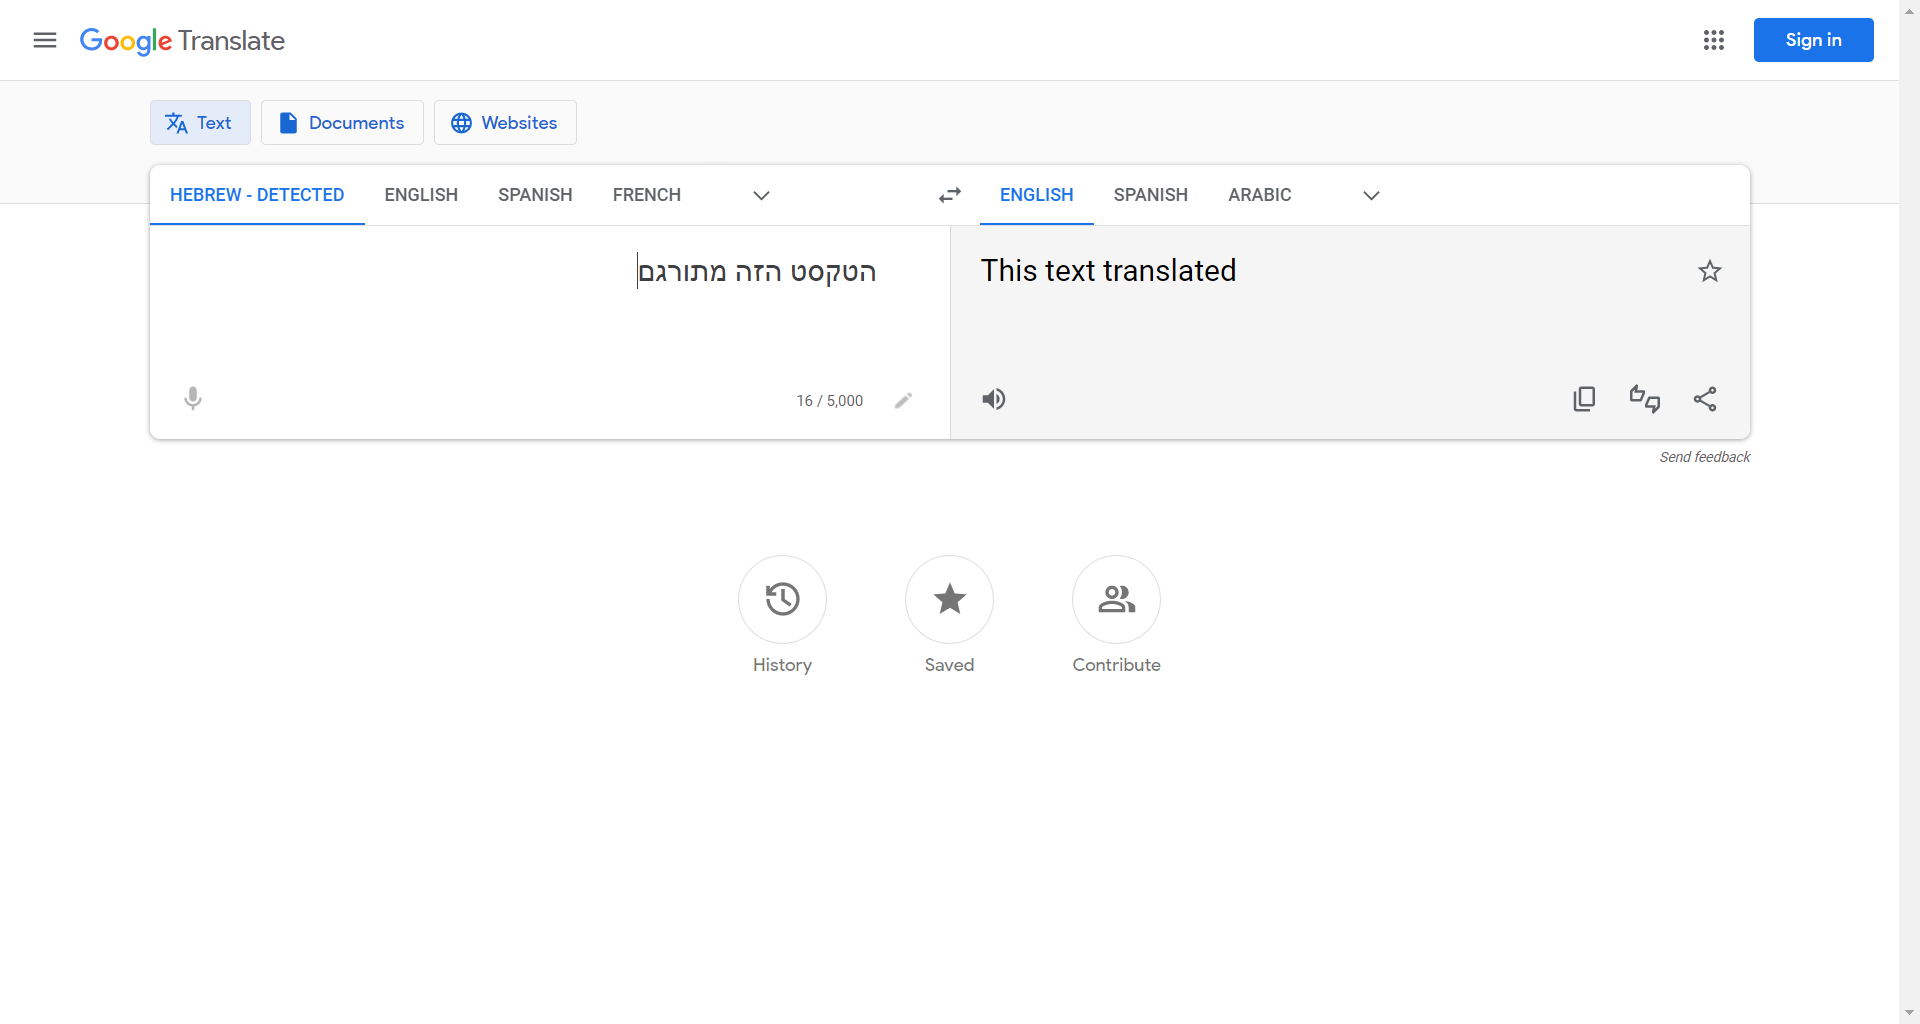
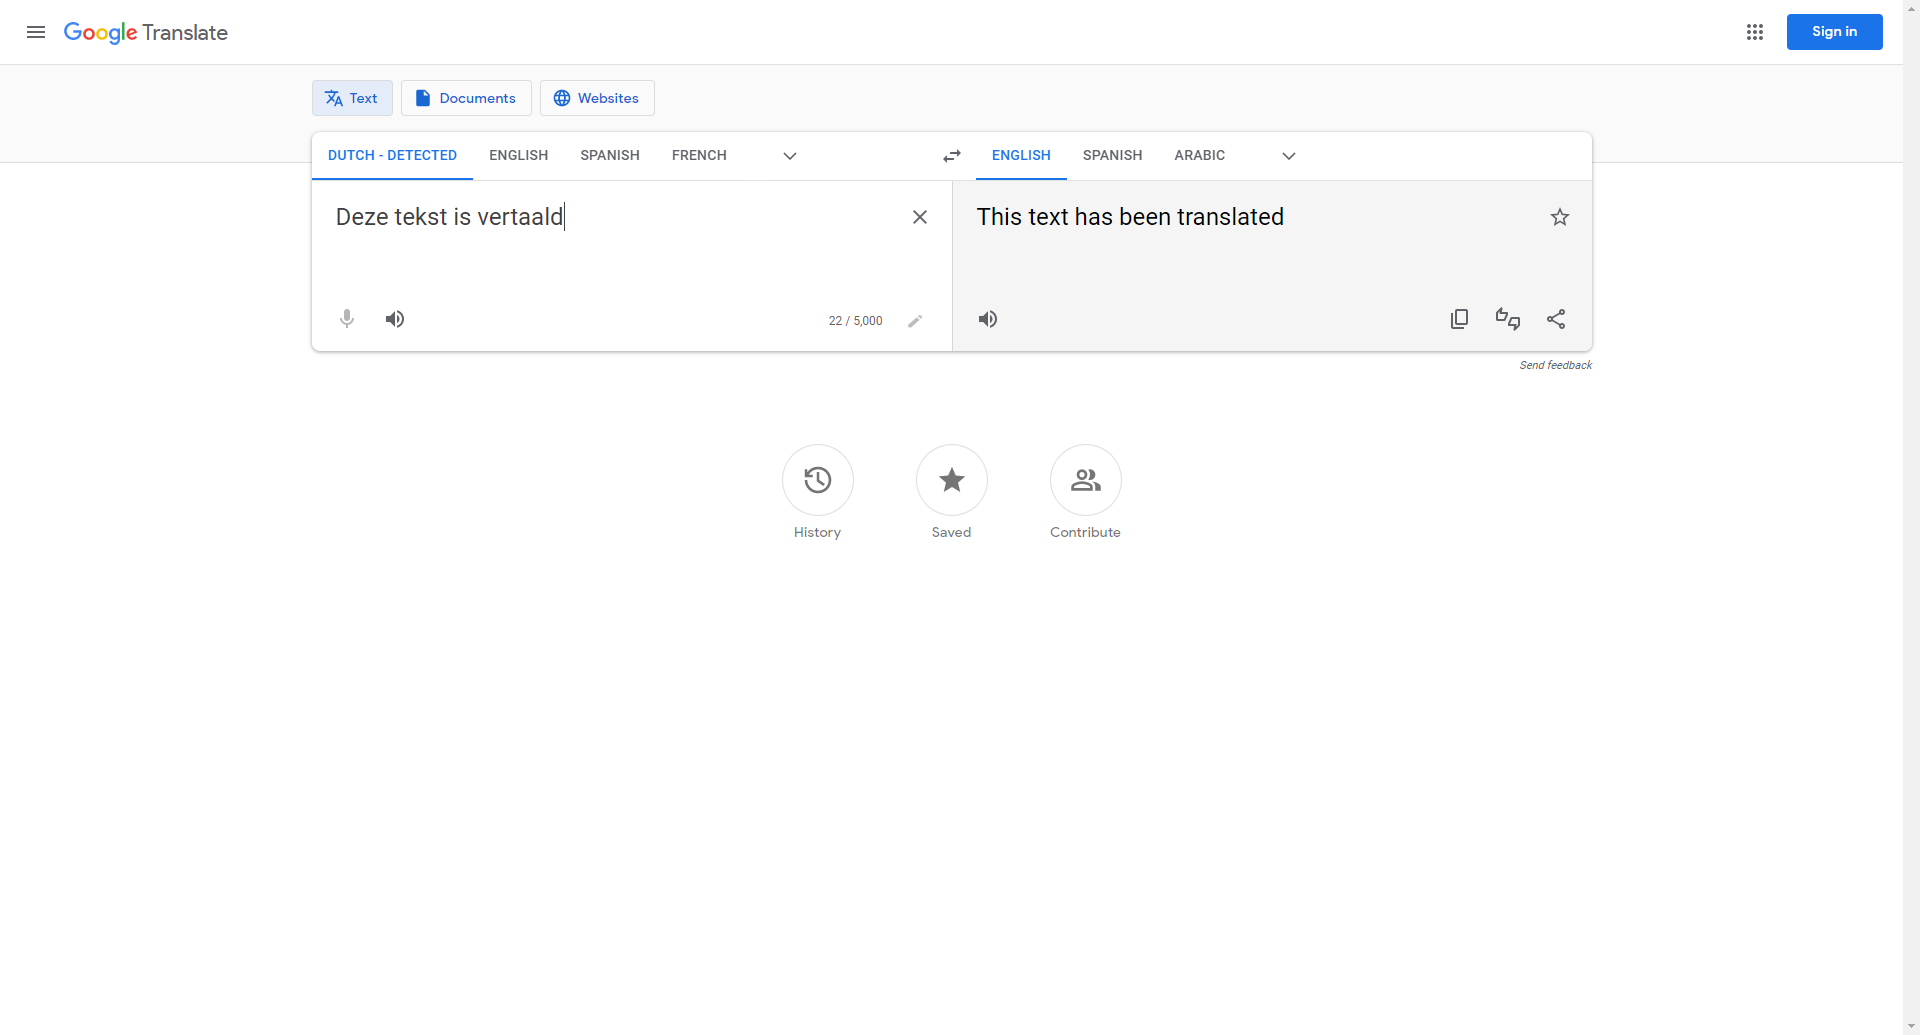
veryGood

diff --git a/src/main/utilities/extent_reports/test-output/ExtentReport.html b/src/main/utilities/extent_reports/test-output/ExtentReport.html
@@ -44,7 +44,7 @@
 		<!-- nav-right -->
 		<ul id='nav-mobile' class='right hide-on-med-and-down nav-right'>
 			<a href='#!'>
-			<span class='label blue darken-3 suite-start-time'>Feb 16, 2023 11:40:41 AM</span>
+			<span class='label blue darken-3 suite-start-time'>Feb 16, 2023 12:25:51 PM</span>
 			</a>
 		</ul>
 	</div>
@@ -126,14 +126,14 @@
 				<li class='test displayed active  pass' status='pass' bdd='false' test-id='1'>
 					<div class='test-heading'>
 						<span class='test-name'>Translate Input Test</span>
-						<span class='test-time'>Feb 16, 2023 11:40:42 AM</span>
+						<span class='test-time'>Feb 16, 2023 12:25:51 PM</span>
 						<span class='test-status right pass'>pass</span>
 					</div>
 					<div class='test-content hide'>
 <div class='test-time-info'>
-	<span class='label start-time'>Feb 16, 2023 11:40:42 AM</span>
-	<span class='label end-time'>Feb 16, 2023 11:40:57 AM</span>
-	<span class='label time-taken grey lighten-1 white-text'>0h 0m 15s+749ms</span>
+	<span class='label start-time'>Feb 16, 2023 12:25:51 PM</span>
+	<span class='label end-time'>Feb 16, 2023 12:26:03 PM</span>
+	<span class='label time-taken grey lighten-1 white-text'>0h 0m 12s+147ms</span>
 </div>
 <div class='test-steps'>
 	<table class='bordered table-results'>
@@ -147,7 +147,7 @@
 		<tbody>
 			<tr class='log' status='pass'>
 				<td class='status pass' title='pass' alt='pass'><i class='material-icons'>check_circle</i></td>
-				<td class='timestamp'>11:40:57 AM</td>
+				<td class='timestamp'>12:26:03 PM</td>
 				<td class='step-details'>
 						Test Passed
 					
@@ -198,19 +198,19 @@
 			<div class='col s2'>
 				<div class='card-panel r'>
 					Start
-					<div class='panel-lead'>Feb 16, 2023 11:40:41 AM</div>
+					<div class='panel-lead'>Feb 16, 2023 12:25:51 PM</div>
 				</div>
 			</div>
 			<div class='col s2'>
 				<div class='card-panel r'>
 			 		End
-			 		<div class='panel-lead'>Feb 16, 2023 11:40:57 AM</div>
+			 		<div class='panel-lead'>Feb 16, 2023 12:26:03 PM</div>
 				</div>
 			</div>
 			<div class='col s2'>
 				<div class='card-panel r'>
 					Time Taken
-					<div class='panel-lead'>0h 0m 16s+41ms</div>
+					<div class='panel-lead'>0h 0m 12s+453ms</div>
 				</div>
 			</div>
 		</div>
@@ -253,7 +253,7 @@
 		</script>
 		<script>
 			var timeline = {
-			        "Translate Input Test":15.749
+			        "Translate Input Test":12.147
 			};
 		</script>
 		<script src='https://cdn.rawgit.com/extent-framework/extent-github-cdn/b65cd69/v3html/js/extent.js' type='text/javascript'></script>

diff --git a/src/main/java/GoogleTranslate/infra/scanner/TextActions.java b/src/main/java/GoogleTranslate/infra/scanner/TextActions.java
@@ -42,7 +42,7 @@ public class TextActions {
             System.out.println("Translated text: " + translatedText);
 
             //Detect if the tested language is being detected automatically by Google Translate
-          //  detectLanguage(driver,language);
+         //detectLanguage(SupportedLanguage.DUTCH);
 
         } catch (Exception e) {
             // If there's an exception, log the error message and take a screenshot
@@ -63,7 +63,8 @@ public class TextActions {
 
     //Verify Detected language :
 
-    public static String detectLanguage(WebDriver driver, SupportedLanguage language) {
+ public static String detectLanguage(SupportedLanguage language) {
+
 
         Logger logger = Logger.getLogger(TextActions.class.getName());
         WaitForElement wait = new WaitForElement(driver, 30);
@@ -90,43 +91,6 @@ public class TextActions {
 
 
 
-
-//    public static String detectLanguage(WebDriver driver) {
-//        //Detect the tested language
-//        Logger logger = Logger.getLogger(TextActions.class.getName());
-//        WaitForElement wait = new WaitForElement(driver, 30);
-//
-//        String detectedLanguage = "";
-//        WebElement languageToDetect = null;
-//        try {
-//            wait.waitForElement(By.xpath(HEBREW_DETECT_ELEMENT));
-//            languageToDetect = driver.findElement(By.xpath(HEBREW_DETECT_ELEMENT));
-//            detectedLanguage = languageToDetect.getText();
-//        } catch (NoSuchElementException e) {
-//            System.out.println("Element not found: " + e.getMessage());
-//        }
-//
-//        String expectedLanguage = "HEBREW - DETECTED";
-//        try {
-//            assertEquals(detectedLanguage, expectedLanguage);
-//        } catch (AssertionError e) {
-//            System.out.println("Detected language does not match expected language: " + e.getMessage());
-//        }
-//
-//
-//
-//        //Add a log message to track the detected language
-//        logger.info("Detected language: " + detectedLanguage);
-//        System.out.println("Detected language: " + detectedLanguage);
-//
-//
-//        //Verifying the language detection of Google Translate works as expected
-//        Assert.assertEquals(HEBREW_DETECT, languageToDetect.getText());
-//
-//        return detectedLanguage;
-//    }
-//
-//
 
 
 //Verify translated text is correct:

diff --git a/src/main/java/GoogleTranslate/run/main_run/TranslateFromFileTest.java b/src/main/java/GoogleTranslate/run/main_run/TranslateFromFileTest.java
@@ -1,14 +1,11 @@
 package GoogleTranslate.run.main_run;
 
-import GoogleTranslate.infra.scanner.TextActions;
 import GoogleTranslate.infra.scanner.read_file_scanner.LanguageFilePath;
 import GoogleTranslate.infra.scanner.read_file_scanner.ScanFile;
-import GoogleTranslate.infra.web_elements.languages.SupportedLanguage;
 import GoogleTranslate.test.tesng_page.test_actions.TranslateFromFile;
 import io.qameta.allure.Step;
 import org.openqa.selenium.WebDriver;
 import org.openqa.selenium.chrome.ChromeDriver;
-import org.testng.annotations.BeforeMethod;
 import org.testng.annotations.BeforeTest;
 import org.testng.annotations.Test;
 
@@ -16,7 +13,6 @@ import java.io.FileNotFoundException;
 
 import static GoogleTranslate.infra.seleniume_driver_properties.driver_properties.DriverPro.ChromePath;
 import static GoogleTranslate.infra.seleniume_driver_properties.driver_properties.DriverPro.ChromeWebDriver;
-import static java.util.Locale.JAPANESE;
 
 public class TranslateFromFileTest {
 
@@ -133,7 +129,8 @@ public void ReadFromFile_French() throws InterruptedException, FileNotFoundExcep
 
 public void ReadFromFile_Hebrew() throws InterruptedException, FileNotFoundException {
         TranslateFromFile translateFromFile=new TranslateFromFile();
-        translateFromFile.Read(driver,FileRead= ScanFile.getScannedFile(LanguageFilePath.HEBREW));
+  translateFromFile.Read(driver,FileRead= ScanFile.getScannedFile(LanguageFilePath.DUTCH));
+
 
 
 

diff --git a/src/main/java/GoogleTranslate/run/main_run/RunTranslateInput.java b/src/main/java/GoogleTranslate/run/main_run/RunTranslateInput.java
@@ -10,6 +10,8 @@ import java.io.IOException;
 import static GoogleTranslate.infra.seleniume_driver_properties.extent_reports_path.EXTENT_PATH;
 
 public class RunTranslateInput{
+//In this test the typed word will be sent to google translate, and after it is translated it will print in the consul the translated
+
 
 
         public static void main(String[] args) throws IOException, InterruptedException {

diff --git a/src/main/java/GoogleTranslate/test/tesng_page/TranslateInputTest.java b/src/main/java/GoogleTranslate/test/tesng_page/TranslateInputTest.java
@@ -45,7 +45,7 @@ public class TranslateInputTest {
 
 
     //In this test the typed word will be sent to google translate, and after it is translated it will print in the consul the translated
-    //word and also will print if the language detection works as expected(true /false).
+
     @Test()
     //Steps for Allure reports
     @Step
